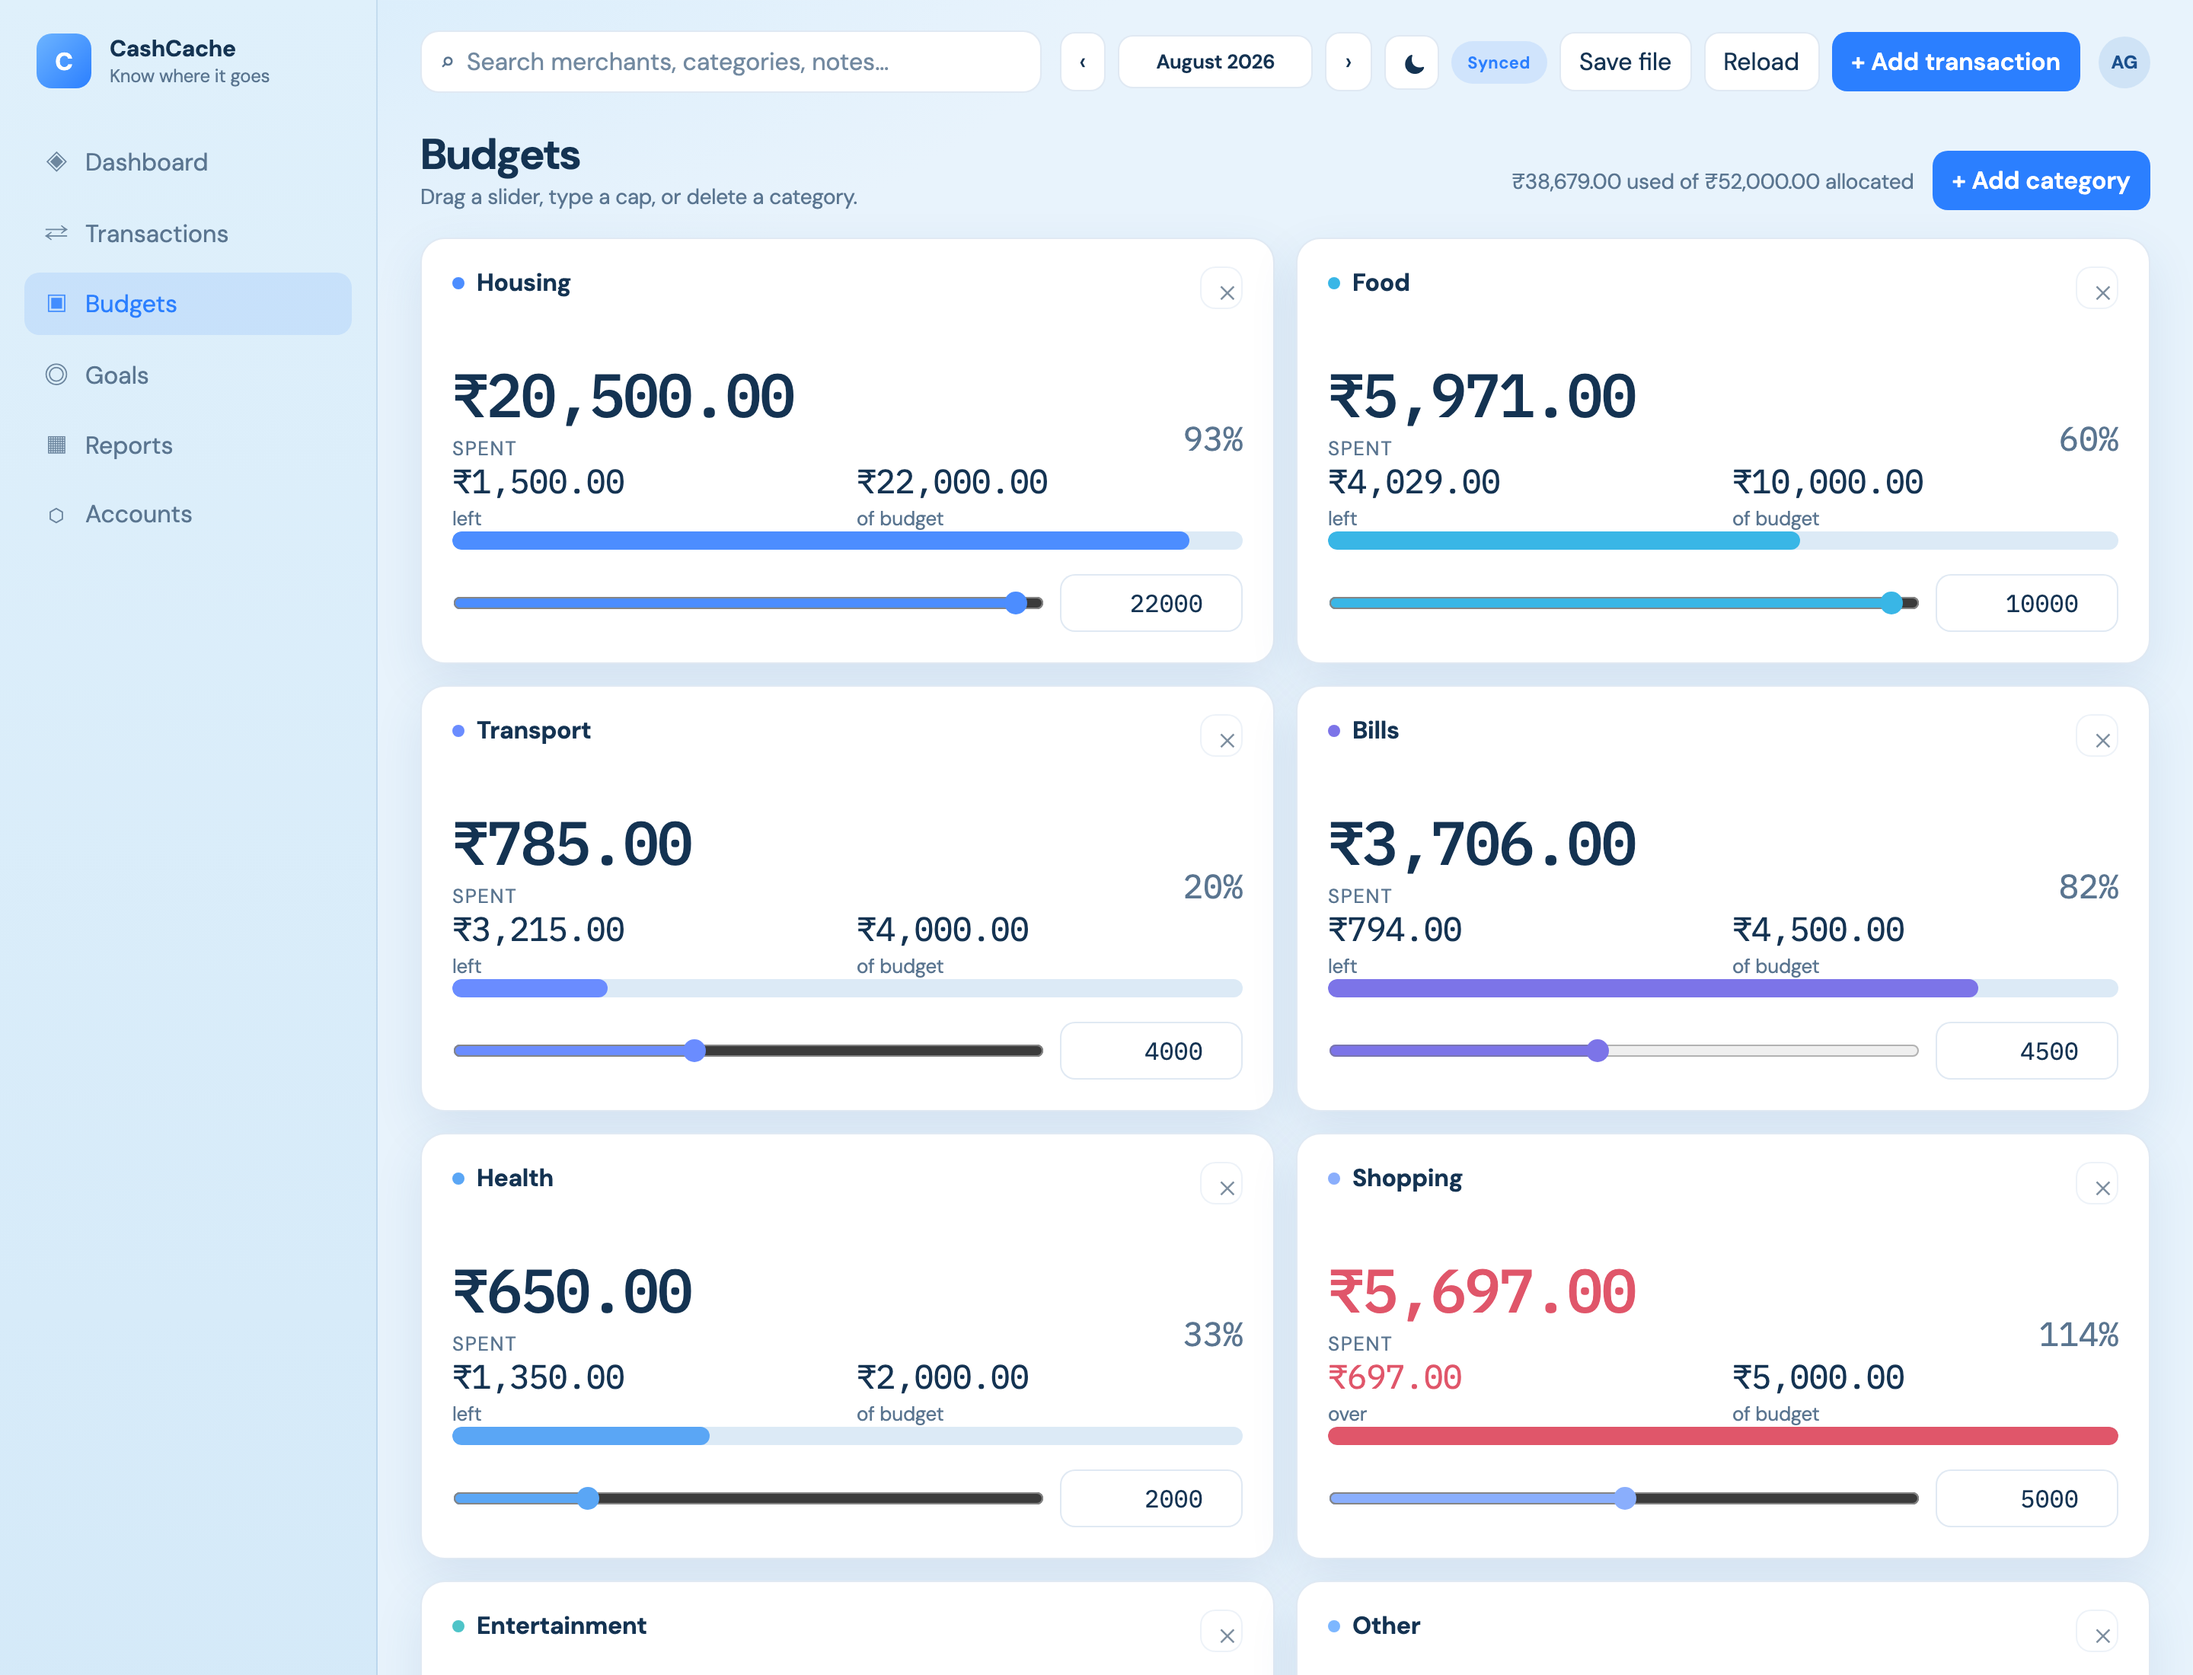
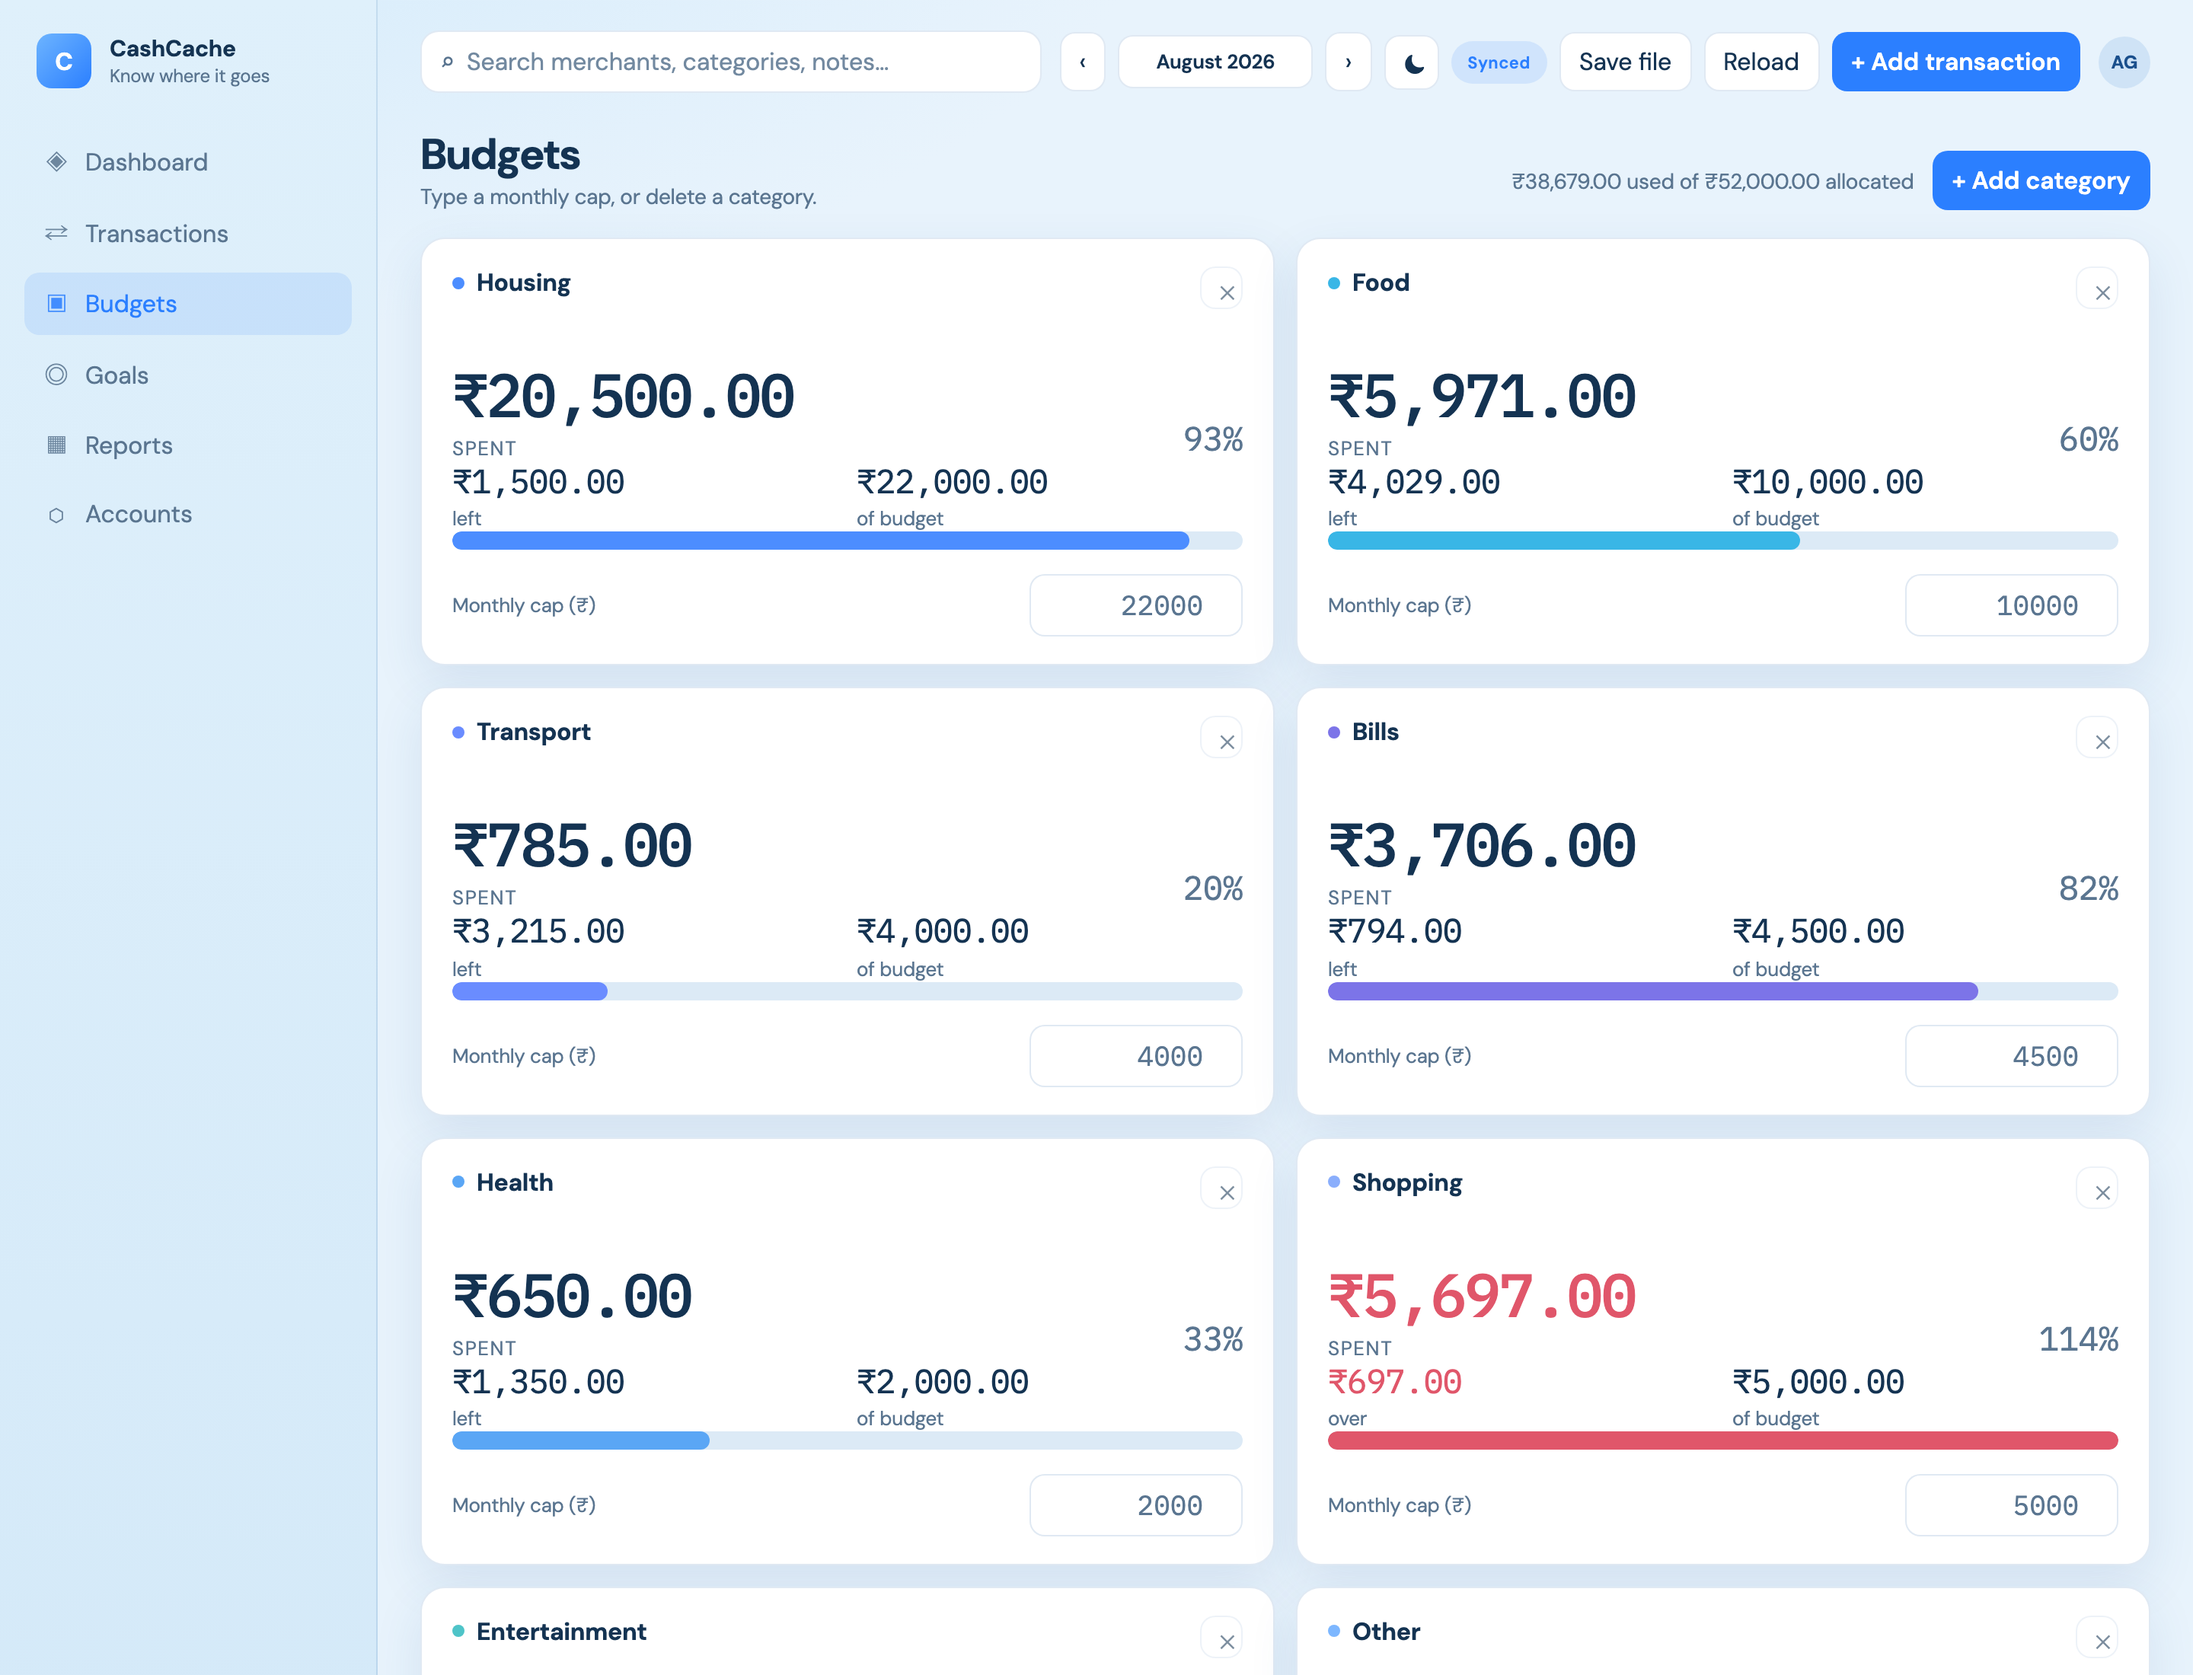
Drop budget sliders; keep one spend bar and a monthly cap field
The second bar was a range input and read as a duplicate progress bar.

diff --git a/app.js b/app.js
@@ -888,10 +888,6 @@ function renderTable() {
     .join("");
 }
 
-function sliderMaxFor(budget) {
-  return Math.max(10000, Math.ceil(Math.max(budget, 50) / 100) * 100);
-}
-
 function budgetCardEl(name) {
   return $$("#budgetGrid [data-cat]").find((el) => el.dataset.cat === name);
 }
@@ -923,13 +919,7 @@ function applyBudget(name, value, source) {
   const card = budgetCardEl(name);
   if (card) {
     paintBudgetCard(card, cat);
-    const range = card.querySelector("input[type=range]");
     const num = card.querySelector("input[type=number]");
-    const max = sliderMaxFor(n);
-    if (range) {
-      if (Number(range.max) < n) range.max = max;
-      if (source !== "range") range.value = n;
-    }
     if (num && source !== "number") num.value = n;
   }
   updateBudgetSummary();
@@ -957,17 +947,15 @@ function renderBudgets() {
   $("#budgetGrid").innerHTML = CATEGORIES.filter((c) => c.name !== "Income")
     .map((c) => {
       const s = spent[c.name] || 0;
-      const max = sliderMaxFor(c.budget);
       return `<article class="card budget-card" data-cat="${esc(c.name)}">
         <div class="budget-card-head">
           <h3><span class="cat-dot" style="background:${c.color}"></span>${esc(c.name)}</h3>
           <button type="button" class="ghost icon-btn cat-del" data-delete title="Delete ${esc(c.name)}">✕</button>
         </div>
         <div class="stat-block">${statsFigures(budgetStatModel(c, s))}</div>
-        <div class="budget-edit">
-          <input type="range" min="0" max="${max}" step="10" value="${c.budget}" aria-label="${esc(c.name)} budget" style="accent-color:${c.color}" />
-          <input type="number" class="budget-num" min="0" step="10" value="${c.budget}" aria-label="${esc(c.name)} budget amount" />
-        </div>
+        <label class="budget-edit">Monthly cap (₹)
+          <input type="number" class="budget-num" min="0" step="10" value="${c.budget}" aria-label="${esc(c.name)} monthly cap" />
+        </label>
       </article>`;
     })
     .join("") + `<button type="button" class="add-tile" id="openAddCatTile">
@@ -993,7 +981,6 @@ function bindBudgetGrid() {
     const card = e.target.closest("[data-cat]");
     if (!card) return;
     const name = card.dataset.cat;
-    if (e.target.matches("input[type=range]")) applyBudget(name, e.target.value, "range");
     if (e.target.matches("input[type=number]")) {
       const n = Number(e.target.value);
       if (Number.isFinite(n) && n >= 0) applyBudget(name, n, "number");

diff --git a/index.html b/index.html
@@ -8,7 +8,7 @@
   <link rel="preconnect" href="https://fonts.googleapis.com" />
   <link rel="preconnect" href="https://fonts.gstatic.com" crossorigin />
   <link href="https://fonts.googleapis.com/css2?family=DM+Sans:ital,opsz,wght@0,9..40,400;0,9..40,500;0,9..40,600;0,9..40,700;1,9..40,400&family=IBM+Plex+Mono:wght@400;500&display=swap" rel="stylesheet" />
-  <link rel="stylesheet" href="styles.css?v=10" />
+  <link rel="stylesheet" href="styles.css?v=11" />
   <script>
     try {
       const t = localStorage.getItem("ledger.theme") || "light";
@@ -231,7 +231,7 @@
         <div class="page-head">
           <div>
             <h1>Budgets</h1>
-            <p class="muted">Drag a slider, type a cap, or delete a category.</p>
+            <p class="muted">Type a monthly cap, or delete a category.</p>
           </div>
           <div class="page-head-actions">
             <div class="muted" id="budgetSummary"></div>
@@ -452,6 +452,6 @@
   </div>
 
   <div class="toast" id="toast" hidden></div>
-  <script src="app.js?v=10"></script>
+  <script src="app.js?v=11"></script>
 </body>
 </html>

diff --git a/styles.css b/styles.css
@@ -551,14 +551,18 @@ select, input[type="date"], input[type="month"], input[type="number"], input[typ
 }
 .budget-card-head { display: flex; justify-content: space-between; align-items: flex-start; gap: 8px; flex-shrink: 0; }
 .budget-card h3 { font-size: 16px; margin-bottom: 0; display: flex; align-items: center; gap: 8px; }
-.budget-card input[type="range"] { width: 100%; accent-color: var(--mint); }
 .budget-edit {
-  display: grid; grid-template-columns: 1fr 120px; gap: 10px; align-items: center;
+  display: flex;
+  align-items: center;
+  justify-content: space-between;
+  gap: 12px;
   margin-top: 4px;
   flex-shrink: 0;
+  font-size: var(--text-label);
+  color: var(--muted);
 }
 .budget-num {
-  font-family: var(--mono); font-size: var(--text-data); text-align: right; width: 100%;
+  font-family: var(--mono); font-size: var(--text-amount); text-align: right; width: 140px;
   background: var(--bg-2); padding: 8px 10px;
 }
 

diff --git a/README.md b/README.md
@@ -14,7 +14,7 @@ Screenshots use the bundled sample ledger in [`examples/demo.json`](examples/dem
 
 - **Dashboard** — net cash, income, spend, savings rate, spend-by-category, and a 30-day or calendar-month cash-flow chart
 - **Transactions** — search, filter by type/category, and a dated ledger table
-- **Budgets** — per-category caps with sliders, typed amounts, and over-budget highlighting
+- **Budgets** — per-category caps with typed amounts and over-budget highlighting
 - **Goals** — savings targets with progress rings
 - **Reports** — average daily spend, top category, bills, and a six-month income vs spend trend
 - **Accounts** — checking, savings, credit, and cash; balances update when you add activity
